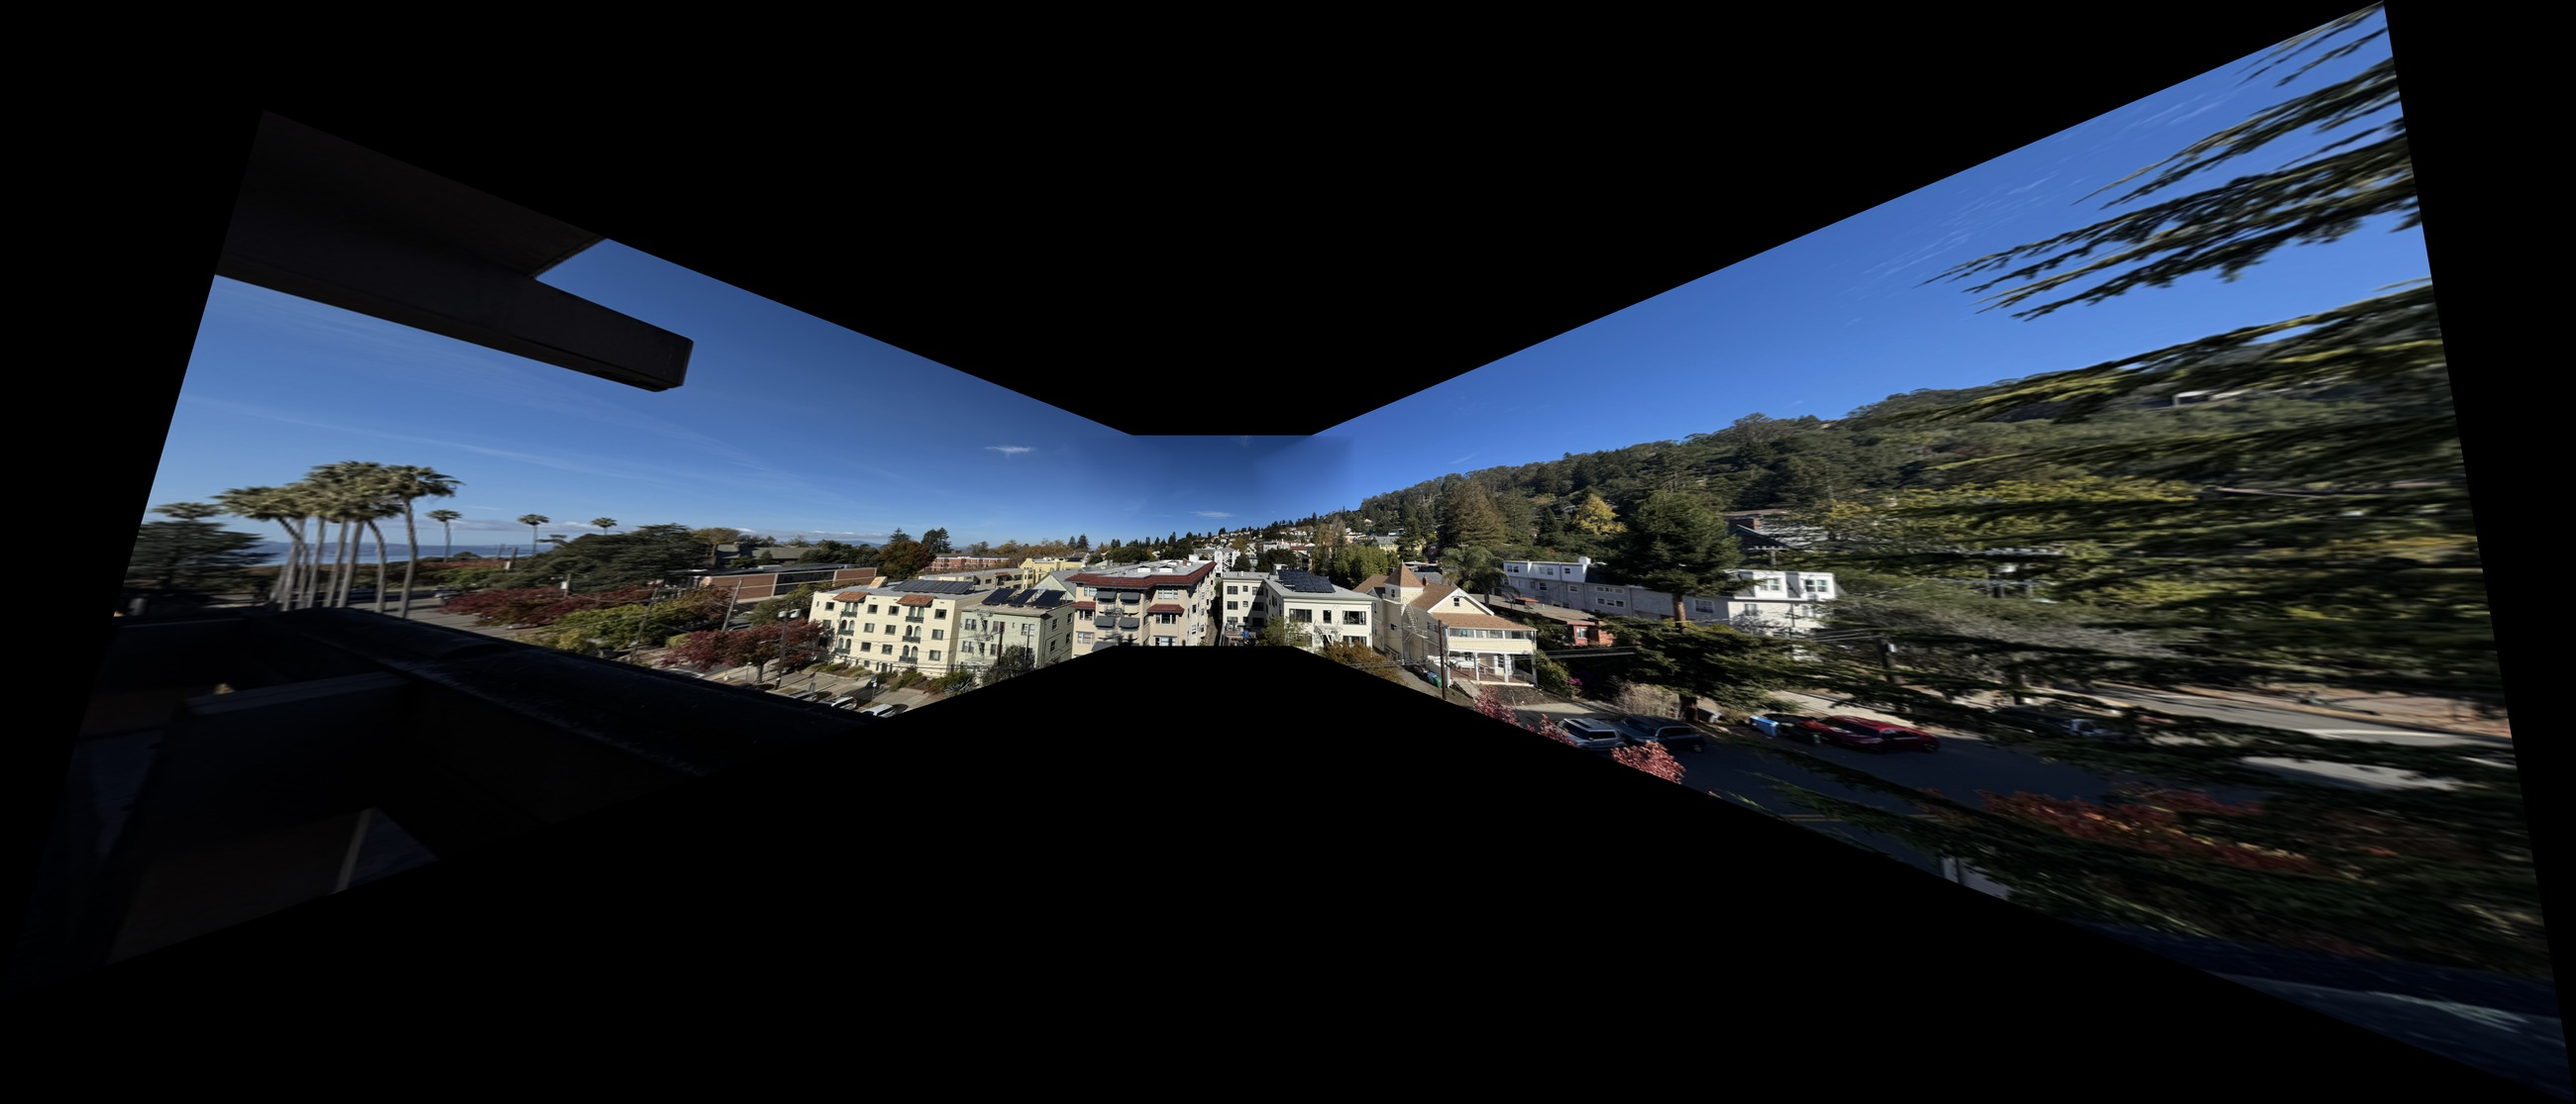
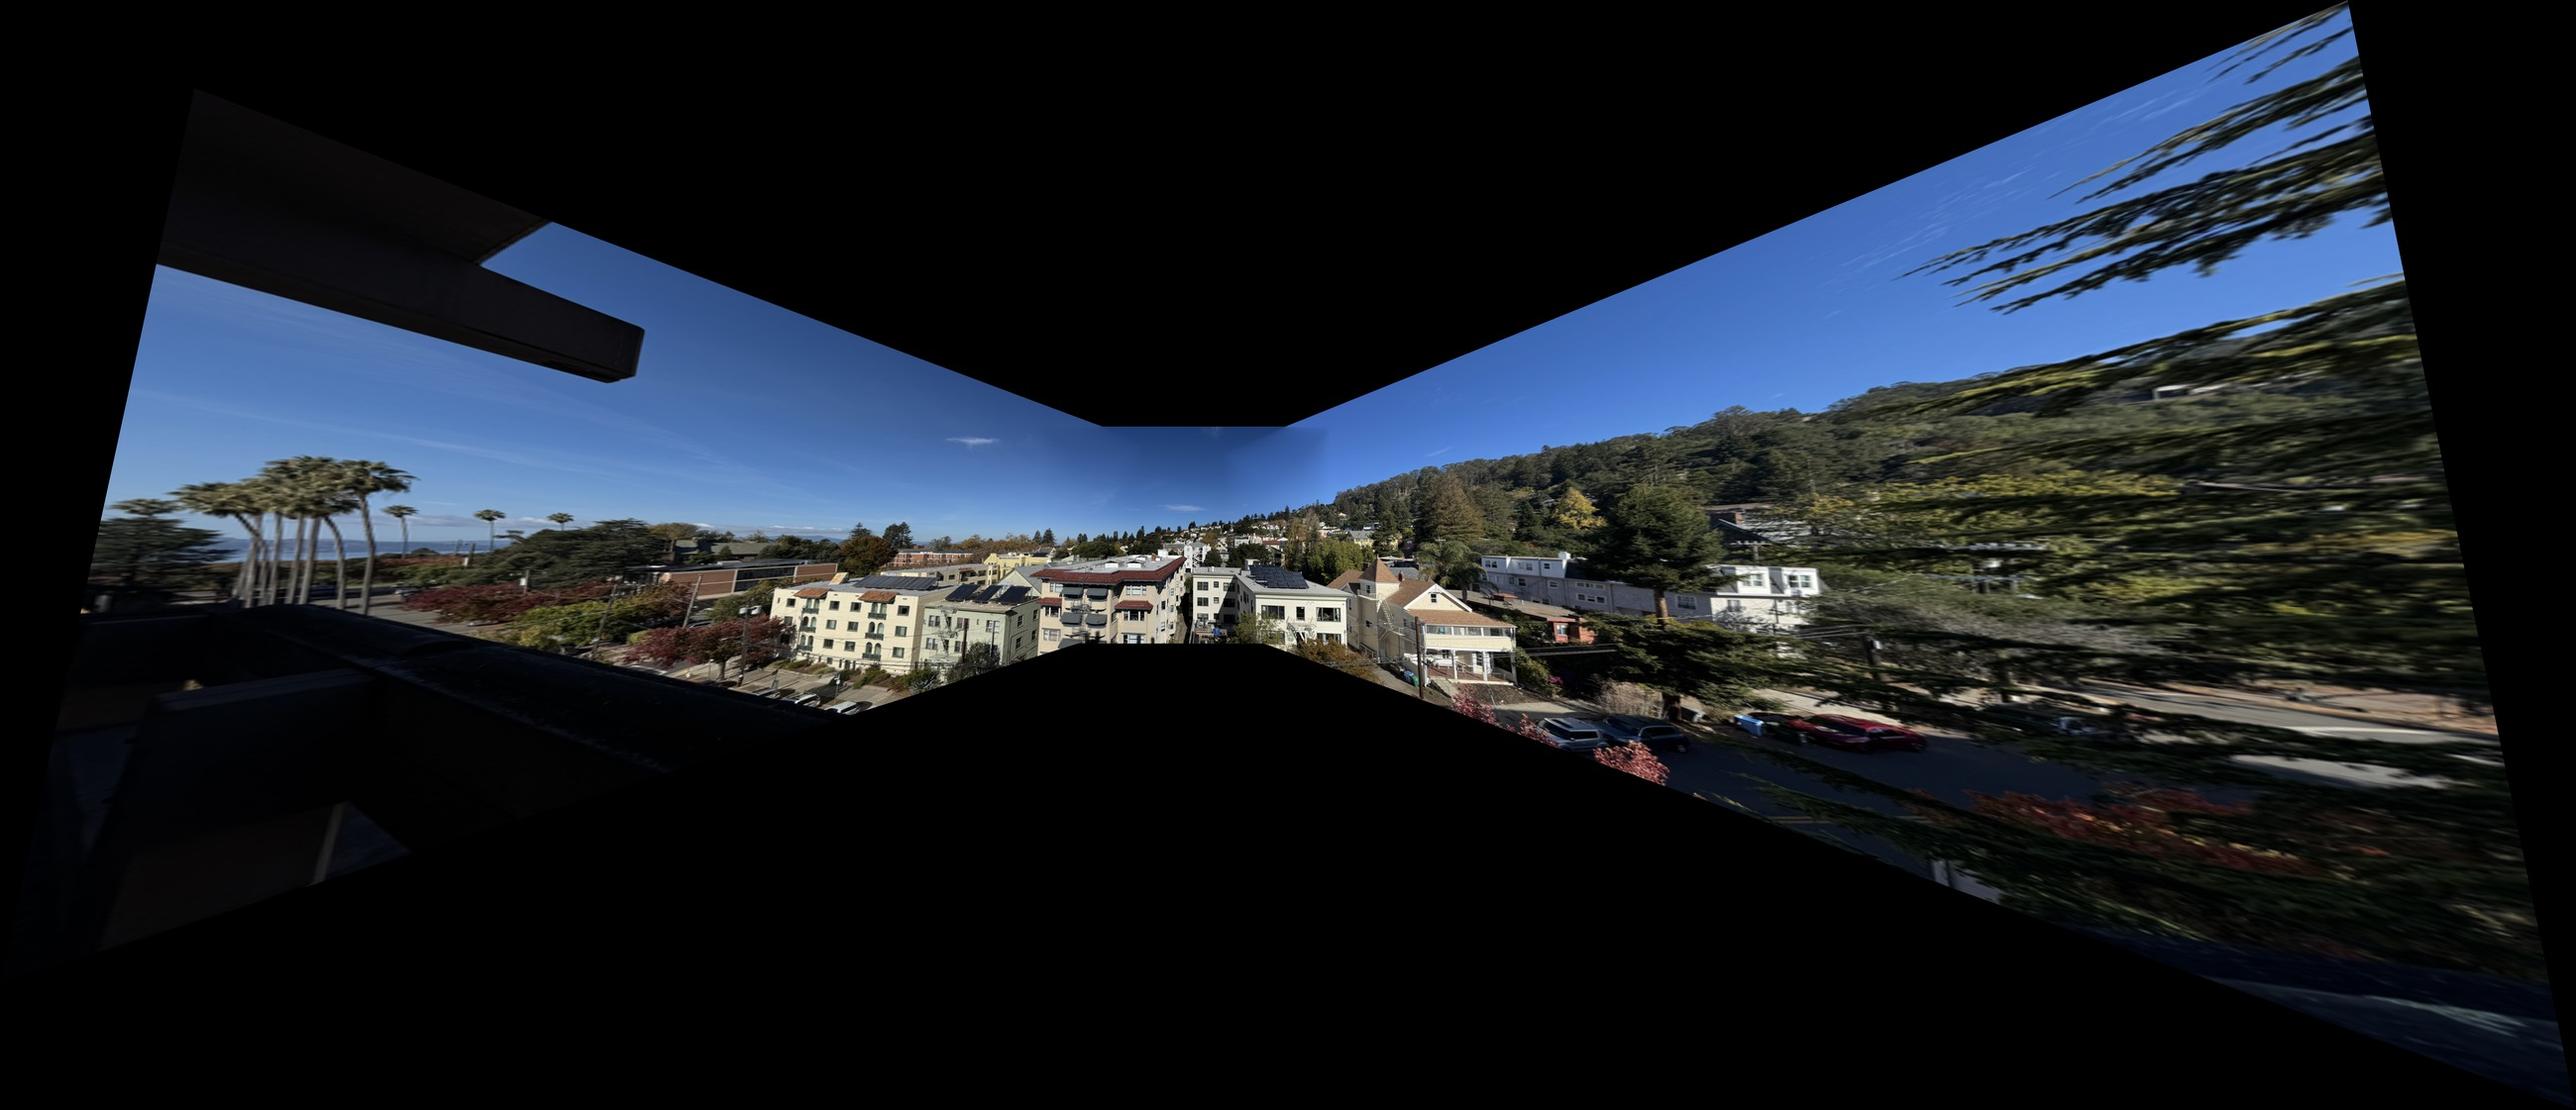
Project 4B

diff --git a/cs180/proj4/index.html b/cs180/proj4/index.html
@@ -445,9 +445,12 @@ def warpImageBilinear(im, H):
           to locate again in another photo. I converted each image to grayscale and used the
           provided <code>get_harris_corners</code> function at a single scale. It returns every
           local maximum of the Harris response, so I got about 19,000 points on a
-          1000&times;750 photo. Many of them were tiny noise peaks in the flat blue sky. I kept only
-          corners with a response above 0.001 of the strongest one, which removed almost all of
-          the sky points and left about 7,600 corners.
+          1000&times;750 photo. Many of them were tiny noise peaks in the flat blue sky. These are a
+          problem for ANMS below: a weak sky point has no stronger neighbor nearby, so it gets a
+          large radius and is kept, even though it cannot be matched reliably. In my first try,
+          hundreds of the chosen corners ended up in the sky. I kept only corners with a response
+          above 0.001 of the strongest one, which removed all but one sky point and left 7,661
+          corners on the buildings and trees.
         </p>
         <p>
           That is still far too many, and the strongest corners bunch up in busy areas like the
@@ -533,15 +536,18 @@ def warpImageBilinear(im, H):
           the second-nearest neighbor.
         </p>
         <p class="eq">
-          e<sub>1-NN</sub> / e<sub>2-NN</sub> &lt; 0.6
+          e<sub>1-NN</sub> / e<sub>2-NN</sub> &lt; 0.7
         </p>
         <p>
-          I picked 0.6 from Figure 6b of the paper, where correct and incorrect matches start to
-          separate well. I also tried 0.7. It gave more matches, but a larger share of them were
-          wrong, so I kept 0.6. A few bad matches still get through, like the palm tree in the
-          Etcheverry Hall North set below. RANSAC handles those in the next step.
+          Figure 6b of the paper shows that correct and incorrect matches separate well in this
+          range of ratios. I first used 0.6, but on the Etcheverry Hall South set it left only about
+          30 matches per pair, all bunched in one area. Raising the threshold to 0.7 roughly
+          doubled the matches. It also lets more wrong matches through, but RANSAC in the next step
+          is built to remove them. For example, the right &rarr; middle hallway pair has many wrong
+          matches between different ceiling tiles and cinder blocks, because those patterns repeat
+          and look almost the same.
         </p>
-<pre><code>def match(d1, d2, t=0.6):
+<pre><code>def match(d1, d2, t=0.7):
     d = np.sqrt(np.maximum(dist2(d1, d2), 0))
     j = np.argsort(d, axis=1)[:, :2]
     i = np.arange(len(d1))
@@ -550,16 +556,16 @@ def warpImageBilinear(im, H):
       </div>
 
       <div class="pair matches">
-        <figure><img class="shot" src="img/apartment_matches.jpg" alt="Etcheverry Hall North left-to-middle feature matches"><figcaption><b>Etcheverry Hall North: left &rarr; middle.</b> 76 matches.</figcaption></figure>
-        <figure><img class="shot" src="img/apartment_matches_right.jpg" alt="Etcheverry Hall North right-to-middle feature matches"><figcaption><b>Etcheverry Hall North: right &rarr; middle.</b> 81 matches.</figcaption></figure>
+        <figure><img class="shot" src="img/apartment_matches.jpg" alt="Etcheverry Hall North left-to-middle feature matches"><figcaption><b>Etcheverry Hall North: left &rarr; middle.</b> 104 matches.</figcaption></figure>
+        <figure><img class="shot" src="img/apartment_matches_right.jpg" alt="Etcheverry Hall North right-to-middle feature matches"><figcaption><b>Etcheverry Hall North: right &rarr; middle.</b> 119 matches.</figcaption></figure>
       </div>
       <div class="pair matches">
-        <figure><img class="shot" src="img/hallway_matches.jpg" alt="Hallway left-to-middle feature matches"><figcaption><b>Hallway: left &rarr; middle.</b> 76 matches.</figcaption></figure>
-        <figure><img class="shot" src="img/hallway_matches_right.jpg" alt="Hallway right-to-middle feature matches"><figcaption><b>Hallway: right &rarr; middle.</b> 85 matches.</figcaption></figure>
+        <figure><img class="shot" src="img/hallway_matches.jpg" alt="Hallway left-to-middle feature matches"><figcaption><b>Hallway: left &rarr; middle.</b> 104 matches.</figcaption></figure>
+        <figure><img class="shot" src="img/hallway_matches_right.jpg" alt="Hallway right-to-middle feature matches"><figcaption><b>Hallway: right &rarr; middle.</b> 140 matches.</figcaption></figure>
       </div>
       <div class="pair matches">
-        <figure><img class="shot" src="img/garden_matches.jpg" alt="Etcheverry Hall South left-to-middle feature matches"><figcaption><b>Etcheverry Hall South: left &rarr; middle.</b> 31 matches.</figcaption></figure>
-        <figure><img class="shot" src="img/garden_matches_right.jpg" alt="Etcheverry Hall South right-to-middle feature matches"><figcaption><b>Etcheverry Hall South: right &rarr; middle.</b> 36 matches.</figcaption></figure>
+        <figure><img class="shot" src="img/garden_matches.jpg" alt="Etcheverry Hall South left-to-middle feature matches"><figcaption><b>Etcheverry Hall South: left &rarr; middle.</b> 62 matches.</figcaption></figure>
+        <figure><img class="shot" src="img/garden_matches_right.jpg" alt="Etcheverry Hall South right-to-middle feature matches"><figcaption><b>Etcheverry Hall South: right &rarr; middle.</b> 79 matches.</figcaption></figure>
       </div>
     </section>
 
@@ -574,40 +580,71 @@ def warpImageBilinear(im, H):
           homography far off. I used 4-point RANSAC to find the set of matches that agree with
           each other. In each of 2000 rounds, I pick four random matches, fit an exact homography
           with my <code>computeH</code> from Part A, and project every point from the first image.
-          A match counts as an inlier if its projected point lands within 2 pixels of its partner.
+          A match counts as an inlier if its projected point lands within 3 pixels of its partner.
           After all the rounds, I take the largest inlier set and refit <code>H</code> on all of
           those points with least squares.
         </p>
-<pre><code>def ransac(p1, p2, n=2000, eps=2):
+        <p>
+          I also added two checks so RANSAC does not break on harder inputs. If there are fewer than
+          four matches, or the best set has fewer than four inliers, it stops with an error instead
+          of returning a bad matrix. It also skips any sample where three of the four points are
+          almost on one line (the triangle they form has an area under 5 square pixels), because
+          those four points cannot pin down a homography.
+        </p>
+<pre><code>def flat(p):
+    for i in range(4):
+        a, b, c = np.delete(p, i, axis=0)
+        u = b - a
+        v = c - a
+        if abs(u[0] * v[1] - u[1] * v[0]) &lt; 10:
+            return True
+    return False
+
+
+def ransac(p1, p2, n=2000, eps=3):
+    if len(p1) &lt; 4:
+        raise ValueError("need at least 4 matches")
     rng = np.random.default_rng(0)
     best = np.zeros(len(p1), dtype=bool)
     for _ in range(n):
         k = rng.choice(len(p1), 4, replace=False)
+        if flat(p1[k]) or flat(p2[k]):
+            continue
         h = computeH(p1[k], p2[k])
         with np.errstate(all="ignore"):
             e = np.linalg.norm(project(p1, h) - p2, axis=1)
         ok = e &lt; eps
         if ok.sum() &gt; best.sum():
             best = ok
+    if best.sum() &lt; 4:
+        raise ValueError("RANSAC found fewer than 4 inliers")
     return computeH(p1[best], p2[best]), best</code></pre>
         <p>
           With the left &rarr; middle and right &rarr; middle homographies, I reused the same
           canvas and distance-transform feathering from Part A.4. The only difference from Part A
           is where the correspondences come from.
         </p>
+        <p>
+          To check the automatic homographies, I used my clicked points from Part A as ground
+          truth. I map each clicked point with the automatic <code>H</code> and measure how far it
+          lands from the point I clicked in the middle image. Since my clicks cover the whole
+          overlap, this also catches a homography that fits one small area well but is wrong
+          elsewhere. For reference, my manual homographies are 0.4 to 1.1 pixels off on their own
+          points, which is roughly how precise my clicking was.
+        </p>
       </div>
 
       <div class="bench">
         <table>
-          <caption>Ratio-test matches and RANSAC inliers</caption>
-          <thead><tr><th>Set</th><th>Pair</th><th>Matches</th><th>Inliers</th></tr></thead>
+          <caption>Matches, RANSAC inliers, and error on my clicked points</caption>
+          <thead><tr><th>Set</th><th>Pair</th><th>Matches</th><th>Inliers</th><th>Error</th></tr></thead>
           <tbody>
-            <tr><td>Etcheverry Hall North</td><td>left &rarr; middle</td><td>76</td><td>69</td></tr>
-            <tr><td>Etcheverry Hall North</td><td>right &rarr; middle</td><td>81</td><td>78</td></tr>
-            <tr><td>Hallway</td><td>left &rarr; middle</td><td>76</td><td>62</td></tr>
-            <tr><td>Hallway</td><td>right &rarr; middle</td><td>85</td><td>42</td></tr>
-            <tr><td>Etcheverry Hall South</td><td>left &rarr; middle</td><td>31</td><td>12</td></tr>
-            <tr><td>Etcheverry Hall South</td><td>right &rarr; middle</td><td>36</td><td>15</td></tr>
+            <tr><td>Etcheverry Hall North</td><td>left &rarr; middle</td><td>104</td><td>90</td><td>1.3 px</td></tr>
+            <tr><td>Etcheverry Hall North</td><td>right &rarr; middle</td><td>119</td><td>112</td><td>0.7 px</td></tr>
+            <tr><td>Hallway</td><td>left &rarr; middle</td><td>104</td><td>78</td><td>0.6 px</td></tr>
+            <tr><td>Hallway</td><td>right &rarr; middle</td><td>140</td><td>69</td><td>0.7 px</td></tr>
+            <tr><td>Etcheverry Hall South</td><td>left &rarr; middle</td><td>62</td><td>23</td><td>3.8 px</td></tr>
+            <tr><td>Etcheverry Hall South</td><td>right &rarr; middle</td><td>79</td><td>37</td><td>2.6 px</td></tr>
           </tbody>
         </table>
       </div>
@@ -630,12 +667,20 @@ def warpImageBilinear(im, H):
         <p>
           The left column uses my clicked points from Part A, and the right column uses the
           automatic pipeline. For the Etcheverry Hall North and Hallway sets, the two results look
-          almost the same, and the recovered matrices are close to my manual ones. The automatic
-          version even finds more correspondences than I clicked. Etcheverry Hall South was the
-          hardest set: the bushes and leaves look alike everywhere, so only 12 and 15 matches
-          survived RANSAC, and most of them sit on the roof and power lines. The overlap still
-          lines up well, but the far-left image is stretched more than in my manual mosaic,
-          because my clicked points covered more of the overlap.
+          almost the same. Their automatic homographies are within about one pixel of my clicks,
+          which is as close as my own clicking was, and they use many more correspondences than
+          the 12 I clicked.
+        </p>
+        <p>
+          Etcheverry Hall South was the hardest set. The bushes and leaves look alike everywhere, so
+          almost all of the inliers sit in one band along the roof, power lines, and tree. With my
+          first settings (ratio 0.6, 2-pixel tolerance), only 12 of 31 matches survived for the
+          left pair, and that homography was 10.4 pixels off on my clicked points: it fit the roof
+          area well but was wrong elsewhere. With the looser ratio and tolerance, RANSAC keeps 23 and
+          37 inliers, and the error drops to 3.8 and 2.6 pixels. The overlap lines up well, but
+          the far-left image is still stretched more than in my manual mosaic. There are no
+          matches in the lower half of the overlap, so the homography has to extrapolate there,
+          while my clicks covered that area too.
         </p>
       </div>
 
